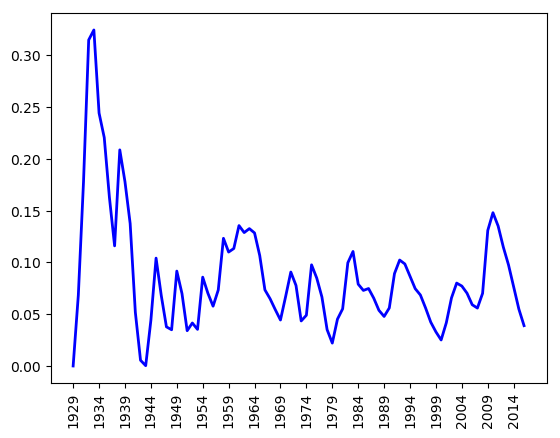
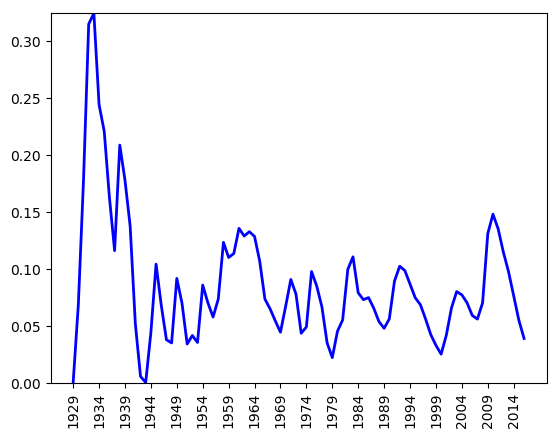
updated employment y axis

diff --git a/employment.py b/employment.py
@@ -11,7 +11,10 @@ df.EMPLOYEES=np.log(df.EMPLOYEES)
 uns=-(df.EMPLOYEES-sp.savgol_filter(df.EMPLOYEES, 71, 4))
 une=abs(uns)
 uny=(sp.savgol_filter(une, 71, 6))
+unw=uns+uny-(uns+uny).min()
 plt.xticks(rotation=90)
 plt.xticks(np.arange(1929, 2017, 5))
-plt.plot(df.DATE, uns+uny-(uns+uny).min(), color='blue', lw=2)
+axes = plt.gca()
+axes.set_ylim([unw.min(), unw.max()])
+plt.plot(df.DATE, unw, color='blue', lw=2)
 plt.savefig('foo.png', bbox_inches='tight')
